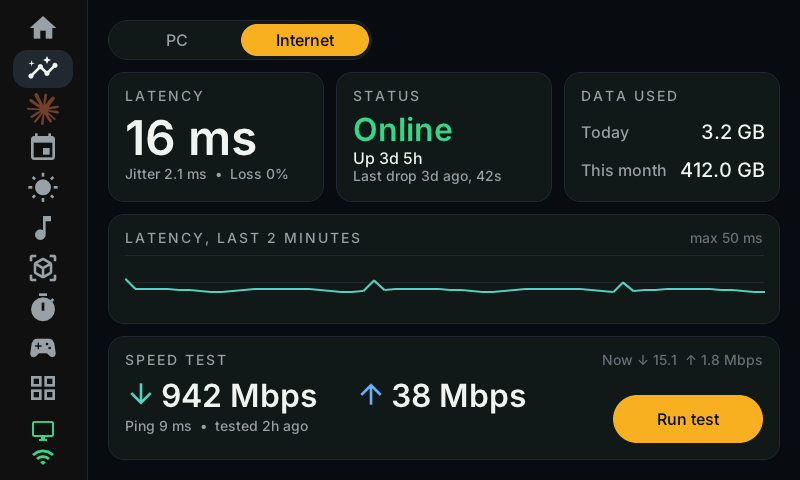
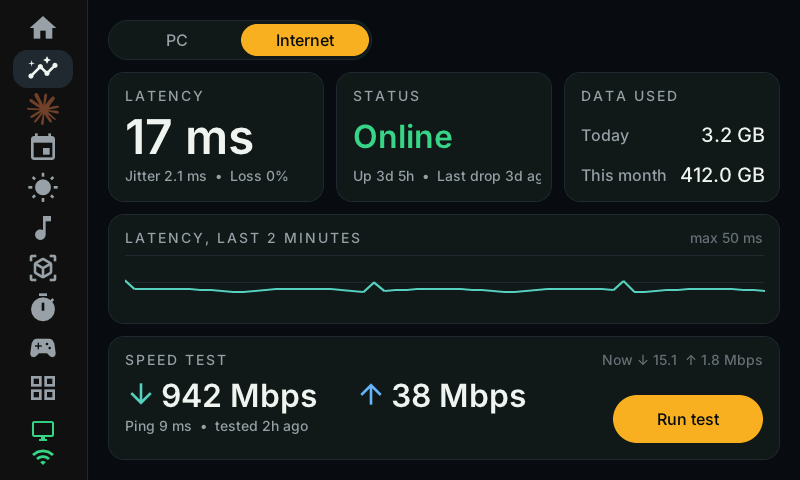
Fill card space across pages and Home widgets
Spread rows over the full card height on the Internet view (status now
shows uptime and the last drop on one line), the AI page's models list,
and the Home internet, printer, stats, weather, media and events widgets.
Filament swatches spread over the card's width. New README screenshots.

diff --git a/firmware/main/ui_home.c b/firmware/main/ui_home.c
@@ -65,6 +65,13 @@ static void open_page_cb(lv_event_t *e)
     ui_show_page((int)(intptr_t)lv_event_get_user_data(e));
 }
 
+// Height inside a widget card of outer height h (padding and border taken off).
+static int inner_height(lv_obj_t *card, int h)
+{
+    return h - lv_obj_get_style_pad_top(card, 0) - lv_obj_get_style_pad_bottom(card, 0)
+         - 2 * lv_obj_get_style_border_width(card, 0);
+}
+
 static lv_obj_t *widget_card(lv_obj_t *parent, int page)
 {
     lv_obj_t *c = ui_card(parent);
@@ -262,9 +269,7 @@ static void layout_claude(int w, int h)
     int colw = tiny ? w - 32 : (w - 32 - x0 - 14) / 2;
     // Fill the card's height: caption and value on the first line, the reset line
     // at the bottom, the bar centred between them.
-    lv_obj_t *card = lv_obj_get_parent(s_cl_cap[0]);
-    int inner_h = h - lv_obj_get_style_pad_top(card, 0) - lv_obj_get_style_pad_bottom(card, 0)
-                - 2 * lv_obj_get_style_border_width(card, 0);
+    int inner_h = inner_height(s_w[W_CLAUDE], h);
     int val_h = lv_font_get_line_height(g_font_20), sub_h = lv_font_get_line_height(g_font_14);
     int sub_y = inner_h - sub_h;
     int bar_y = (val_h + sub_y) / 2 - 5;
@@ -316,13 +321,18 @@ static void create_events(lv_obj_t *page)
 
 static void layout_events(int w, int h)
 {
-    // Card padding 32, header 26, then as many 56 px rows on a 60 px pitch as fit.
-    s_ev_max = (h - 32 - 26 + 4) / 60;
+    // Header 26, then as many 56 px rows as fit with 4 px between them. The rows
+    // spread down to the bottom edge; a single row sits centred under the header.
+    int inner = inner_height(s_w[W_EVENTS], h);
+    s_ev_max = (inner - 26 + 4) / 60;
     if (s_ev_max < 1) s_ev_max = 1;
     if (s_ev_max > EVENT_ROWS_MAX) s_ev_max = EVENT_ROWS_MAX;
+    int room = inner - 26 - 56;
+    int pitch = s_ev_max > 1 ? room / (s_ev_max - 1) : 0;
+    int y0 = 26 + (s_ev_max > 1 || room < 0 ? 0 : room / 2);
     for (int i = 0; i < EVENT_ROWS_MAX; i++) {
         lv_obj_set_size(s_ev_rows[i], w - 32, 56);
-        lv_obj_set_pos(s_ev_rows[i], 0, 26 + i * 60);
+        lv_obj_set_pos(s_ev_rows[i], 0, y0 + i * pitch);
         lv_obj_set_width(s_ev_title[i], w - 52);
     }
     home_refresh_events();
@@ -376,6 +386,14 @@ static void create_media(lv_obj_t *page)
 
 static void layout_media(int w, int h)
 {
+    // Cover, title and artist centred in the card's height.
+    int inner = inner_height(s_w[W_MEDIA], h);
+    int art_y = inner > 64 ? (inner - 64) / 2 : 0;
+    int text_y = inner > 50 ? (inner - 50) / 2 : 0;
+    lv_obj_set_pos(s_md_ph, 0, art_y);
+    lv_obj_set_pos(s_md_frame, 0, art_y);
+    lv_obj_set_pos(s_md_title, 76, text_y + 2);
+    lv_obj_set_pos(s_md_artist, 76, text_y + 30);
     lv_obj_set_width(s_md_title, w - 32 - 76);
     lv_obj_set_width(s_md_artist, w - 32 - 76);
 }
@@ -399,8 +417,8 @@ static void create_stats(lv_obj_t *page)
 static void layout_stats(int w, int h)
 {
     // Rows fill the card's height; one cell wide drops the bars (names and values only).
-    int inner = h - lv_obj_get_style_pad_top(s_w[W_STATS], 0) - lv_obj_get_style_pad_bottom(s_w[W_STATS], 0);
-    int step = inner >= 90 ? 30 : inner / 3;
+    int inner = inner_height(s_w[W_STATS], h);
+    int step = (inner - lv_font_get_line_height(g_font_16)) / 2;
     bool bars = w >= 200;
     for (int i = 0; i < 3; i++) {
         lv_obj_set_pos(s_st_name[i], 0, i * step);
@@ -425,13 +443,18 @@ static void layout_weather(int w, int h)
         lv_obj_add_flag(s_wx_text, LV_OBJ_FLAG_HIDDEN);
         lv_obj_add_flag(s_wx_range, LV_OBJ_FLAG_HIDDEN);
     } else {
+        // Temperature, condition and range as one block, centred in the height
+        // (the 48 px font's own top space puts the digits at the block's top).
+        int block = UI_COMPACT ? 80 : 85;
+        int y0 = (inner_height(wx, h) - block) / 2;
+        if (y0 < 0) y0 = 0;
         lv_obj_set_align(s_wx_temp, LV_ALIGN_TOP_LEFT);
-        lv_obj_set_pos(s_wx_temp, 96, -8);
+        lv_obj_set_pos(s_wx_temp, 96, y0 - 8);
+        lv_obj_set_pos(s_wx_text, 98, y0 + (UI_COMPACT ? 42 : 46));
+        lv_obj_set_pos(s_wx_range, 98, y0 + (UI_COMPACT ? 61 : 66));
         lv_obj_remove_flag(s_wx_text, LV_OBJ_FLAG_HIDDEN);
         lv_obj_remove_flag(s_wx_range, LV_OBJ_FLAG_HIDDEN);
     }
-    (void)wx;
-    (void)h;
 }
 
 static void create_printer(lv_obj_t *page)
@@ -460,6 +483,17 @@ static void layout_printer(int w, int h)
     lv_obj_align(s_pr_state, w < 340 ? LV_ALIGN_TOP_LEFT : LV_ALIGN_TOP_RIGHT, 0, 0);
     lv_obj_set_width(s_pr_file, w - 32);
     lv_obj_set_width(s_pr_bar, w - 32);
+    // Caption on top, progress line on the bottom edge, file name and bar
+    // centred between them.
+    int inner = inner_height(s_w[W_PRINTER], h);
+    int cap_h = lv_font_get_line_height(g_font_14), file_h = lv_font_get_line_height(g_font_20);
+    int info_y = inner - cap_h;
+    int block = file_h + 4 + 10;
+    int top = cap_h + (info_y - cap_h - block) / 2;
+    if (top < cap_h) top = cap_h;
+    lv_obj_set_pos(s_pr_file, 0, top);
+    lv_obj_set_pos(s_pr_bar, 0, top + file_h + 4);
+    lv_obj_set_pos(s_pr_info, 0, info_y);
 }
 
 // ---- game (Steam) ---------------------------------------------------------
@@ -558,7 +592,14 @@ static void create_net(lv_obj_t *page)
 
 static void layout_net(int w, int h)
 {
-    (void)h;
+    // Caption on top, the speed line on the bottom edge, latency centred between.
+    int inner = inner_height(s_w[W_NET], h);
+    int cap_h = lv_font_get_line_height(g_font_14), lat_h = lv_font_get_line_height(g_font_32);
+    int sub_y = inner - 18;
+    int lat_y = cap_h + (sub_y - cap_h - lat_h) / 2;
+    if (lat_y < cap_h) lat_y = cap_h;
+    lv_obj_set_pos(s_nt_lat, 0, lat_y);
+    lv_obj_set_pos(s_nt_sub, 0, sub_y);
     // One cell wide: the caption and latency; the status shows as the latency's colour.
     bool tiny = w < 200;
     if (tiny) {

diff --git a/firmware/main/ui_net.c b/firmware/main/ui_net.c
@@ -18,7 +18,7 @@
 
 hub_net_t g_net;
 
-static lv_obj_t *s_lat, *s_lat_sub, *s_status, *s_up, *s_drop, *s_today, *s_month;
+static lv_obj_t *s_lat, *s_lat_sub, *s_status, *s_drop, *s_today, *s_month;
 static lv_obj_t *s_chart, *s_chart_max, *s_offline;
 static lv_chart_series_t *s_ser;
 static lv_obj_t *s_down, *s_upl, *s_sp_sub, *s_now, *s_run, *s_run_lbl;
@@ -57,53 +57,57 @@ static void run_cb(lv_event_t *e)
     lv_label_set_text(s_run_lbl, "Starting...");
 }
 
-static lv_obj_t *top_card(lv_obj_t *page, int i, const char *caption)
+static lv_obj_t *top_card(lv_obj_t *page, int i, const char *caption, lv_obj_t **cap)
 {
     lv_obj_t *c = ui_card(page);
     lv_obj_set_size(c, CARD_W, TOP_H);
     lv_obj_set_pos(c, i * (CARD_W + 12), 0);
-    lv_obj_t *cap = ui_caption(c, caption);
-    lv_obj_set_pos(cap, 0, 0);
+    *cap = ui_caption(c, caption);
     return c;
 }
 
-static lv_obj_t *line(lv_obj_t *parent, const lv_font_t *font, uint32_t color, int y)
+static lv_obj_t *line(lv_obj_t *parent, const lv_font_t *font, uint32_t color)
 {
     lv_obj_t *l = ui_label(parent, font, color, "");
     ui_marquee(l);
     lv_obj_set_width(l, CARD_W - 32);
-    lv_obj_set_pos(l, 0, y);
     return l;
 }
 
 void net_page_create(lv_obj_t *page)
 {
-    lv_obj_t *c = top_card(page, 0, "LATENCY");
-    s_lat = line(c, UI_COMPACT ? g_font_32 : g_font_48, COL_TEXT, UI_COMPACT ? 24 : 20);
-    s_lat_sub = line(c, g_font_14, COL_MUTED, UI_COMPACT ? 64 : 78);
+    // Each card: caption at the top, its last line on the bottom edge.
+    lv_obj_t *cap;
+    lv_obj_t *c = top_card(page, 0, "LATENCY", &cap);
+    s_lat = line(c, UI_COMPACT ? g_font_32 : g_font_48, COL_TEXT);
+    s_lat_sub = line(c, g_font_14, COL_MUTED);
+    ui_spread(c, (lv_obj_t *[]){cap, s_lat, s_lat_sub}, 3);
 
-    c = top_card(page, 1, "STATUS");
-    s_status = line(c, g_font_32, COL_GOOD, 22);
-    s_up = line(c, g_font_16, COL_TEXT, UI_COMPACT ? 54 : 60);
-    s_drop = line(c, g_font_14, COL_MUTED, UI_COMPACT ? 70 : 80);
+    c = top_card(page, 1, "STATUS", &cap);
+    s_status = line(c, g_font_32, COL_GOOD);
+    s_drop = line(c, g_font_14, COL_MUTED);   // uptime and the last drop
+    ui_spread(c, (lv_obj_t *[]){cap, s_status, s_drop}, 3);
 
-    c = top_card(page, 2, "DATA USED");
-    // Label on the left, amount on the right, one row each.
-    lv_obj_t *l = line(c, g_font_16, COL_MUTED, UI_COMPACT ? 28 : 34);
-    lv_label_set_text(l, "Today");
+    c = top_card(page, 2, "DATA USED", &cap);
+    // Label on the left, amount on the right, one row each. The amounts are
     // 20 px so "This month" and an amount like "412.0 GB" fit side by side.
-    s_today = line(c, g_font_20, COL_TEXT, UI_COMPACT ? 25 : 31);
+    lv_obj_t *today = line(c, g_font_16, COL_MUTED);
+    lv_label_set_text(today, "Today");
+    lv_obj_t *month = line(c, g_font_16, COL_MUTED);
+    lv_label_set_text(month, "This month");
+    ui_spread(c, (lv_obj_t *[]){cap, today, month}, 3);
+    s_today = line(c, g_font_20, COL_TEXT);
     lv_obj_set_style_text_align(s_today, LV_TEXT_ALIGN_RIGHT, 0);
-    l = line(c, g_font_16, COL_MUTED, UI_COMPACT ? 58 : 72);
-    lv_label_set_text(l, "This month");
-    s_month = line(c, g_font_20, COL_TEXT, UI_COMPACT ? 55 : 69);
+    lv_obj_align_to(s_today, today, LV_ALIGN_RIGHT_MID, 0, 0);
+    s_month = line(c, g_font_20, COL_TEXT);
     lv_obj_set_style_text_align(s_month, LV_TEXT_ALIGN_RIGHT, 0);
+    lv_obj_align_to(s_month, month, LV_ALIGN_RIGHT_MID, 0, 0);
 
     // Latency over the last two minutes.
     lv_obj_t *ch = ui_card(page);
     lv_obj_set_size(ch, CONTENT_W, CHART_H);
     lv_obj_set_pos(ch, 0, TOP_H + 12);
-    lv_obj_t *cap = ui_caption(ch, "LATENCY, LAST 2 MINUTES");
+    cap = ui_caption(ch, "LATENCY, LAST 2 MINUTES");
     lv_obj_set_pos(cap, 0, 0);
     s_chart_max = ui_label(ch, g_font_14, COL_DIM, "");
     lv_obj_align(s_chart_max, LV_ALIGN_TOP_RIGHT, 0, 0);
@@ -174,7 +178,7 @@ void net_refresh(void)
 {
     if (!s_lat) return;
     const hub_net_t *n = &g_net;
-    char buf[64], t[24];
+    char buf[112], t[24];
     if (g_pc_online) lv_obj_add_flag(s_offline, LV_OBJ_FLAG_HIDDEN);
     else lv_obj_remove_flag(s_offline, LV_OBJ_FLAG_HIDDEN);
 
@@ -197,21 +201,22 @@ void net_refresh(void)
 
     lv_label_set_text(s_status, n->online ? "Online" : "Offline");
     lv_obj_set_style_text_color(s_status, lv_color_hex(n->online ? COL_GOOD : COL_BAD), 0);
+    // One line under the status: uptime, then the last drop (or the IP address).
+    char up[32] = "", drop[64];
     if (n->online && n->up_since > 0) {
         fmt_dur(t, sizeof(t), (long)(time(NULL) - n->up_since));
-        snprintf(buf, sizeof(buf), "Up %s", t);
-    } else {
-        buf[0] = 0;
+        snprintf(up, sizeof(up), "Up %s", t);
     }
-    lv_label_set_text(s_up, buf);
     if (n->drop_at > 0) {
         char ago[24];
         ui_fmt_ago(ago, sizeof(ago), n->drop_at);
         fmt_dur(t, sizeof(t), n->drop_dur_s);
-        snprintf(buf, sizeof(buf), "Last drop %s, %s", ago, t);
+        snprintf(drop, sizeof(drop), "Last drop %s, %s", ago, t);
     } else {
-        strlcpy(buf, n->ip[0] ? n->ip : "No drops seen", sizeof(buf));
+        strlcpy(drop, n->ip[0] ? n->ip : "No drops seen", sizeof(drop));
     }
+    if (up[0]) snprintf(buf, sizeof(buf), "%s  " "•" "  %s", up, drop);
+    else strlcpy(buf, drop, sizeof(buf));
     lv_label_set_text(s_drop, buf);
 
     ui_fmt_bytes(buf, sizeof(buf), n->today_bytes);

diff --git a/firmware/main/ui_claude.c b/firmware/main/ui_claude.c
@@ -26,6 +26,19 @@ static lv_obj_t *s_chart, *s_day_lbl[HUB_CLAUDE_DAYS], *s_peak;
 static lv_chart_series_t *s_ser;
 static lv_obj_t *s_model_name[HUB_CLAUDE_MODELS], *s_model_bar[HUB_CLAUDE_MODELS], *s_model_val[HUB_CLAUDE_MODELS];
 static lv_obj_t *s_offline, *s_hist;
+static int s_models_h, s_models_x;
+
+// Model rows (name, tokens, bar) spread from under the caption down to the
+// card's bottom edge, however many models there are.
+static void place_model(int i, int count)
+{
+    const int first = 28, row = 28;   // name on top, its bar 22 px lower
+    int pitch = count > 1 ? (s_models_h - first - row) / (count - 1) : 0;
+    int y = first + i * pitch;
+    lv_obj_set_pos(s_model_name[i], s_models_x, y);
+    lv_obj_set_pos(s_model_val[i], s_models_x + lv_obj_get_width(s_model_bar[i]) - 80, y + 2);
+    lv_obj_set_pos(s_model_bar[i], s_models_x, y + 22);
+}
 
 lv_obj_t *claude_history_card(void)
 {
@@ -195,16 +208,17 @@ void claude_create(lv_obj_t *page)
     const int mx = CHART_W + 28, mw = CONTENT_W - 32 - mx;
     lv_obj_t *mt = ui_caption(hist, "MODELS TODAY");
     lv_obj_set_pos(mt, mx, 0);
+    lv_obj_update_layout(hist);
+    s_models_h = lv_obj_get_content_height(hist);
+    s_models_x = mx;
     for (int i = 0; i < HUB_CLAUDE_MODELS; i++) {
         s_model_name[i] = ui_label(hist, g_font_16, COL_TEXT, "");
-        lv_obj_set_pos(s_model_name[i], mx, 28 + i * 44);
         s_model_val[i] = ui_label(hist, g_font_14, COL_MUTED, "");
         lv_obj_set_width(s_model_val[i], 80);
         lv_obj_set_style_text_align(s_model_val[i], LV_TEXT_ALIGN_RIGHT, 0);
-        lv_obj_set_pos(s_model_val[i], mx + mw - 80, 30 + i * 44);
         s_model_bar[i] = ui_bar(hist, ui_agent_color());
         lv_obj_set_size(s_model_bar[i], mw, 6);
-        lv_obj_set_pos(s_model_bar[i], mx, 50 + i * 44);
+        place_model(i, 1);
     }
 
     // In the history card's header, where it can't sit on the chart.
@@ -330,6 +344,7 @@ void claude_refresh(void)
     double top = c->model_count ? c->model_tokens[0] : 1;
     for (int i = 0; i < HUB_CLAUDE_MODELS; i++) {
         bool on = i < c->model_count;
+        place_model(i, c->model_count);
         if (on) {
             lv_obj_remove_flag(s_model_name[i], LV_OBJ_FLAG_HIDDEN);
             lv_obj_remove_flag(s_model_val[i], LV_OBJ_FLAG_HIDDEN);

diff --git a/firmware/main/ui.c b/firmware/main/ui.c
@@ -245,6 +245,19 @@ void ui_marquee(lv_obj_t *label)
     lv_obj_add_event_cb(label, marquee_delete_cb, LV_EVENT_DELETE, m);
 }
 
+void ui_spread(lv_obj_t *card, lv_obj_t *const *rows, int n)
+{
+    lv_obj_update_layout(card);
+    int sum = 0;
+    for (int i = 0; i < n; i++) sum += lv_obj_get_height(rows[i]);
+    int gap = n > 1 ? (lv_obj_get_content_height(card) - sum) / (n - 1) : 0;
+    if (gap < 0) gap = 0;
+    for (int i = 0, y = 0; i < n; i++) {
+        lv_obj_set_y(rows[i], y);
+        y += lv_obj_get_height(rows[i]) + gap;
+    }
+}
+
 lv_obj_t *ui_caption(lv_obj_t *parent, const char *text)
 {
     lv_obj_t *l = ui_label(parent, g_font_14, COL_MUTED, text);

diff --git a/firmware/main/ui_internal.h b/firmware/main/ui_internal.h
@@ -66,6 +66,8 @@ lv_obj_t *ui_bar(lv_obj_t *parent, uint32_t color);
 void ui_marquee(lv_obj_t *label);
 void ui_bar_set_color(lv_obj_t *bar, uint32_t color);
 lv_obj_t *ui_caption(lv_obj_t *parent, const char *text);   // small spaced-out section title
+// Stack rows down a card: first at the top, last on the bottom edge, equal gaps.
+void ui_spread(lv_obj_t *card, lv_obj_t *const *rows, int n);
 lv_obj_t *ui_round_button(lv_obj_t *parent, int size, uint32_t bg, const lv_font_t *icon_font,
                           const char *glyph, lv_event_cb_t cb, void *user);
 void ui_fmt_clock(char *buf, size_t n, time_t t);   // "3:05 PM" / "15:05"

diff --git a/firmware/main/ui_printer.c b/firmware/main/ui_printer.c
@@ -310,8 +310,8 @@ void printer_refresh(void)
         }
     }
 
-    // Spread the slots over the card: 4 slots get wide labels, 8 get narrow ones.
-    int slots = p->ams_count > 4 ? p->ams_count : 4;
+    // Spread the loaded slots over the card's full width.
+    int slots = p->ams_count > 1 ? p->ams_count : 1;
     int step = (RIGHT_W - 32) / slots;
     for (int i = 0; i < HUB_MAX_AMS; i++) {
         bool on = i < p->ams_count;
